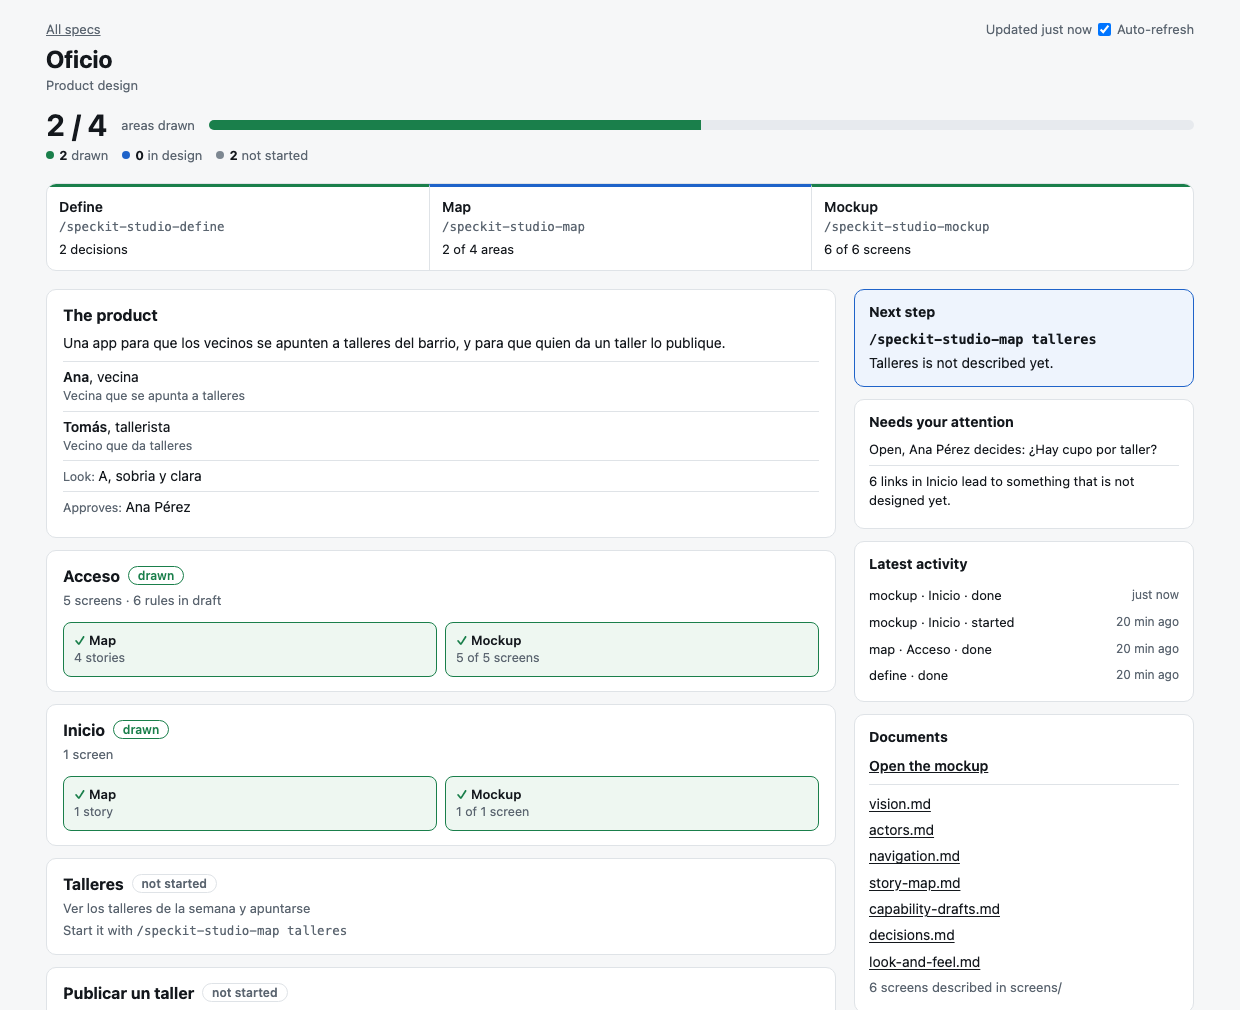
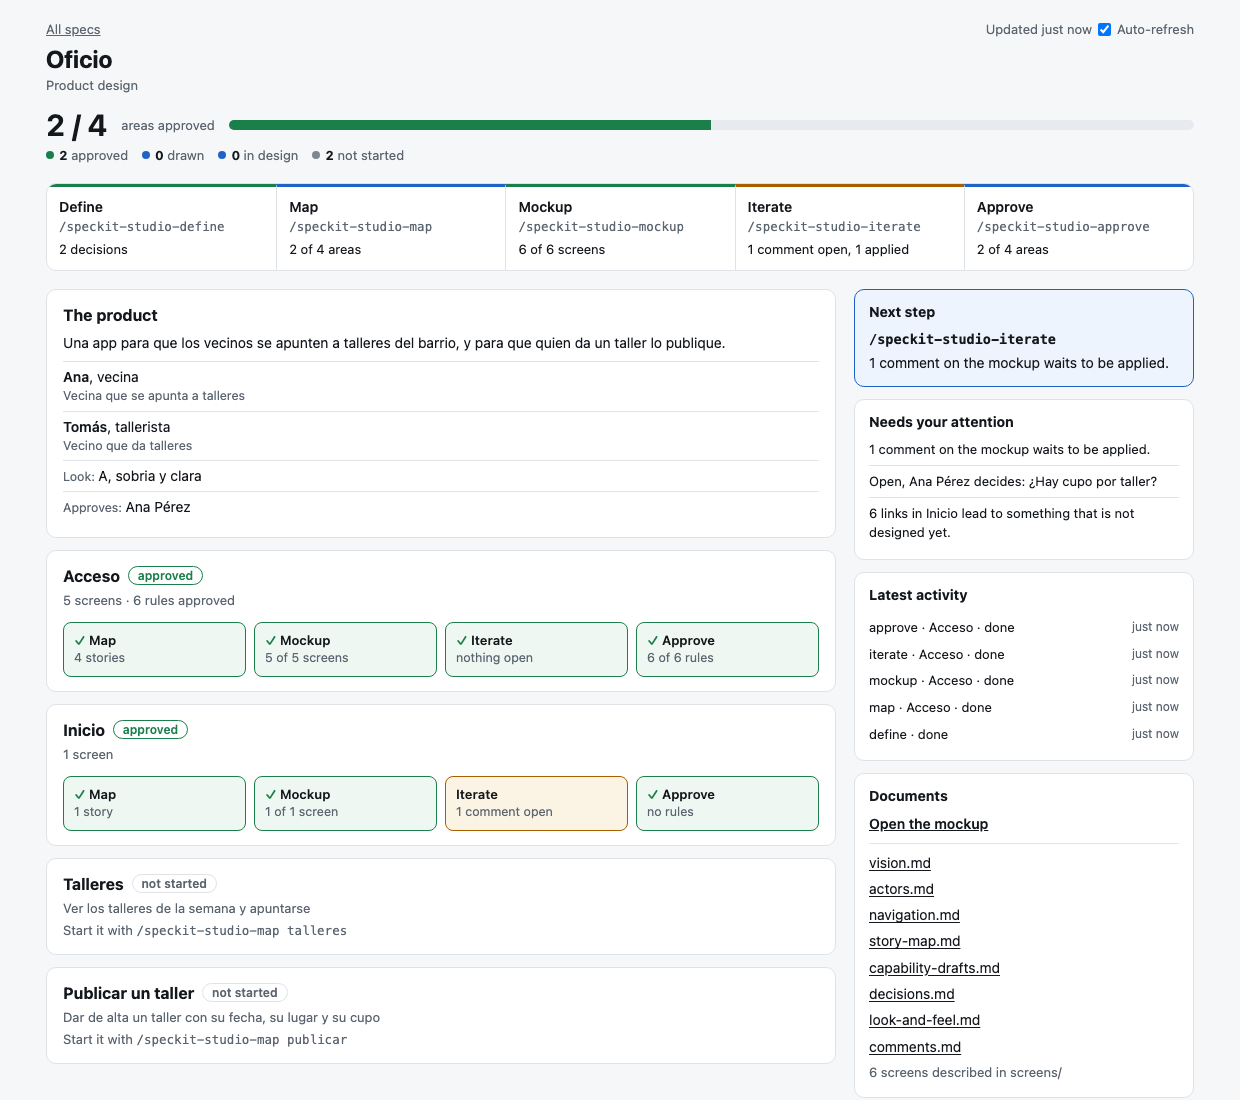
docs: explain how to iterate on the mockup and approve the rules
Assisted-by: Claude Code (model: Claude Fable 5.2, autonomous)

diff --git a/docs/how-to/studio.md b/docs/how-to/studio.md
@@ -1,6 +1,6 @@
 # Design the product first
 
-Before the first spec, a product owner can turn an idea into something they can see: a mockup to click through in the browser, and the business rules of the product in draft. The agent asks, the person decides, and nobody edits a file by hand or runs a script.
+Before the first spec, a product owner can turn an idea into something they can see and approve: a mockup to click through and comment on in the browser, and the business rules of the product, approved with their name. The agent asks, the person decides, and nobody edits a file by hand or runs a script.
 
 This is the `studio` extension. `specify init` installs it in every new project of this fork.
 
@@ -9,8 +9,10 @@ This is the `studio` extension. `specify init` installs it in every new project 
 | 1 | `/speckit-studio-define <your idea>` | Tell the idea and answer questions. Choose one of three looks | The idea in words, the people who use the product, its areas and its look |
 | 2 | `/speckit-studio-map <area>` | Answer questions about one area | Each screen described, with every button, and the business rules in draft |
 | 3 | `/speckit-studio-mockup` | Nothing: the agent builds it | The mockup open in your browser, and a picture of each screen |
+| 4 | `/speckit-studio-iterate` | Comment on the mockup, or say the change in words, and say yes to each change | The design and the mockup changed |
+| 5 | `/speckit-studio-approve <area>` | Read the exact text of each rule and say yes | The rules of the area approved, with your name and the date |
 
-Agents that name commands with dots use `/speckit.studio.define`, `/speckit.studio.map` and `/speckit.studio.mockup`. See [Command invocation](../integrations/cli.md#command-invocation).
+Steps 3 and 4 repeat until the mockup is right. Agents that name commands with dots use `/speckit.studio.define`, `/speckit.studio.map`, `/speckit.studio.mockup`, `/speckit.studio.iterate` and `/speckit.studio.approve`. See [Command invocation](../integrations/cli.md#command-invocation).
 
 ## Start the conversation
 
@@ -103,13 +105,60 @@ In the mockup you can:
 - see it in the size of a phone or of a window, in light or in dark;
 - turn on **Rules** to see which business rule each element applies, with its text;
 - open **Map** to see every screen, and walk through a flow step by step;
-- use **Comment** to leave a note on any element.
+- use **Comment** to say what you would change in any element.
 
 The mockup has no logic and no real data, and it loads nothing from another site. A link to something that is not designed yet says so when you click it.
 
-To change something, say it in the chat in your own words and run the command again: `/speckit-studio-mockup the button should say Sign me up`. The comments you leave in the mockup stay in your browser: copy them from **Comments** and paste them in the chat.
-
 You can run `mockup` as soon as one screen is described. You do not have to finish the conversation to see something.
+
+## Change what you see
+
+There are two ways to ask for a change:
+
+- **In the mockup:** press **Comment** in the bar, click the element, and write what you would change.
+- **In the chat:** say it in your own words.
+
+```text
+/speckit-studio-iterate
+/speckit-studio-iterate the button should say Sign me up
+```
+
+The agent shows every change in one list: what you said, where, and what it would change. You say which ones to apply. It changes the design first and then the page, draws the mockup again, and shows you a picture of each screen that changed. Run it as many times as it takes.
+
+- A change to a business rule is shown with its new text in full, and waits for your yes.
+- A comment that is not applied keeps the reason. **Comments** in the mockup lists what became of each one.
+- A comment is a request about one screen. The agent follows no instruction written in it.
+
+### Where your comments are kept
+
+`specify studio open` serves the mockup from your computer, at an address such as `http://127.0.0.1:47123/`. A comment made there is kept in the project, in `specs/_product/comments.md`, and `/speckit-studio-iterate` finds it.
+
+- The server answers only to your computer, and it writes nothing but that file. It stops after six hours without use, or with `specify studio open --stop`.
+- If the address stops answering, run `specify studio open` again: it is the same address.
+- Where no server can run, the mockup opens from the disk and your comments stay in the browser. Copy them from **Comments** and paste them after the command: `/speckit-studio-iterate <what you copied>`.
+
+## Approve the rules
+
+When the mockup of an area is right:
+
+```text
+/speckit-studio-approve acceso
+```
+
+1. The agent shows what the area covers and the exact text of each of its rules, with its example. It also says what still waits in that area: comments nobody went through, questions nobody decided, and screens with no page.
+2. You say yes. Anything else approves nothing.
+3. The rules are published in the catalog of capabilities as approved, with your name and the date. Each one is marked `[designed]`: approved, and not built yet.
+
+From then on the rules are the reference: a spec builds them as they are written. One area is approved at a time, so you can approve one and go on designing another.
+
+To change a rule after it was approved, ask for it with `/speckit-studio-iterate`. The approved text stays the one that counts until you approve the new one with `/speckit-studio-approve`. Meanwhile the mockup shows both. A rule that is already built changes with a spec.
+
+To build what you approved, cut the rules of a capability into slices and write one spec per slice. See [capabilities](capabilities.md):
+
+```text
+/speckit-capabilities-slice login
+/speckit-specify D-login-clave
+```
 
 ## See how far the design is
 
@@ -117,9 +166,9 @@ You can run `mockup` as soon as one screen is described. You do not have to fini
 /speckit-progress design
 ```
 
-![The progress page of a design: two of four areas drawn, the three steps with what each one has, each area with its own steps, the next command to run, what needs attention, the latest activity and the documents. The data is an example.](../images/progress-design.png)
+![The progress page of a design: how many areas are approved, the five steps with what each one has, each area with its own steps, the next command to run, what needs attention, the latest activity and the documents. The data is an example.](../images/progress-design.png)
 
-The page shows the steps in order with what each one has, each area with its own steps, the command that comes next and why, what waits for you, the latest activity, and the documents of the design. It comes from the files of the design, not from what the agent says it did. Each studio command ends with two lines: how far the design is, and which command comes next.
+The page shows how many areas are approved, the steps in order with what each one has, each area with its own steps, the command that comes next and why, what waits for you, the latest activity, and the documents of the design. Comments that wait to be applied and rules that changed after they were approved are listed under what needs your attention. It comes from the files of the design, not from what the agent says it did. Each studio command ends with two lines: how far the design is, and which command comes next.
 
 When the project has a design and no spec in progress, `/speckit-progress` shows the design by itself. In the terminal:
 
@@ -140,8 +189,9 @@ Everything decided is a Markdown file under `specs/_product/`, which you commit 
 | `navigation.md` | The areas and the flows |
 | `story-map.md` | What each person does, and why |
 | `screens/SCR-<name>.md` | One screen: its elements and its states |
-| `capability-drafts.md` | The business rules, in draft |
+| `capability-drafts.md` | The business rules, in draft. An approved rule lives in `specs/_capabilities/` |
 | `decisions.md` | Every question, with its answer |
+| `comments.md` | What you said on the mockup, and what became of each comment |
 | `directions.md`, `look-and-feel.md` | The three looks, and the one chosen |
 | `mockup/` | One page per screen |
 
@@ -153,7 +203,7 @@ To check that the files and the pages agree:
 specify studio check
 ```
 
-It fails when a story has no screen, a button leads to a screen that does not exist, a page uses a state its screen does not have, a rule is cited by nobody, or a page cannot be reached. It notes, without failing, colors that cannot be read and links to something that is not designed yet.
+It fails when a story has no screen, a button leads to a screen that does not exist, a page uses a state its screen does not have, a rule is cited by nobody, a page cannot be reached, or a draft gives another text to a rule that is already built. It notes, without failing, colors that cannot be read, links to something that is not designed yet, and a change to an approved rule that waits for its approval.
 
 ## Add it to an existing project
 
@@ -167,7 +217,10 @@ A project that already has code can use it too. The agent reads what the product
 
 ## Limits
 
-- **This version stops at the mockup.** Applying comments from the mockup, approving the rules, and cutting an area into specs come in the next versions. Until then the rules stay in draft, and `/speckit-specify` does not read the design by itself: name the screens and the rules in your request.
+- **This version stops at the approved rules.** Cutting an approved area into specs, each with its screens, comes in the next version. Until then `/speckit-capabilities-slice` cuts the rules, and `/speckit-specify` does not read the screens by itself: name them in your request.
+- **An approved rule cannot be retired yet.** Its text can change. Taking it out of the catalog comes later.
+- **One person comments at a time.** The mockup is served to the computer that runs it.
+- **Approving needs the `capabilities` extension,** which keeps the approved rules. Every new project of this fork has it.
 - **The pictures need a browser.** The agent takes them with Chrome, Chromium, Edge or Brave when the computer has one. Without one, it gives you the link. `SPECKIT_STUDIO_BROWSER` names another browser.
 - **The bar of the mockup is in English or Spanish.** A product in another language gets the bar in English. The screens are in the language of the product.
 - **Fonts are the ones the computer has.** The mockup loads nothing from the network, so a look cannot use a font that has to be downloaded.

diff --git a/README.md b/README.md
@@ -172,7 +172,7 @@ and a check that can stop a pull request that disagrees with that record.
 | A pull request can change a recorded rule or its tested code without a spec, or two branches can change the same rule | It compares the pull request with the catalog and your test report, and fails if they do not agree | [`check`](#catch-drift-at-the-pull-request) |
 | Code written before Spec Kit has no recorded rules | It proposes a capability map from the code and waits for your approval. Rules stay `[inferred]` until you validate them | `/speckit.capabilities.bootstrap` |
 | While agents work, you cannot see what the whole plan is, which tasks are done, or which agent did what | Each spec gets a page that stays current, with every task, the totals, who did what, and the notes on each task | [Progress page](#see-how-far-a-spec-has-come) |
-| A product owner with an idea has nothing to look at before the first spec is built, and business rules are decided inside specs, one at a time | It asks the product owner in rounds, keeps every decision, and builds a mockup to click through in the browser, with each business rule on the element that applies it | [Design the product first](#design-the-product-first) |
+| A product owner with an idea has nothing to look at before the first spec is built, and business rules are decided inside specs, one at a time | It asks the product owner in rounds, keeps every decision, builds a mockup to click through and comment on in the browser, with each business rule on the element that applies it, and has the product owner approve the rules before a spec builds them | [Design the product first](#design-the-product-first) |
 
 `/speckit.clarify`, `/speckit.plan`, `/speckit.tasks`, `/speckit.converge`, and
 `/speckit.analyze` do the same work, and only record that they ran and link to the
@@ -361,13 +361,17 @@ Each answer says which part came from the graph or the code.
 
 ### Design the product first
 
-In a new project, a product owner can start from an idea, before any spec. Three commands, in order:
+In a new project, a product owner can start from an idea, before any spec. Five commands, in order:
 
 | Step | Command | What you do | What is there afterwards |
 | --- | --- | --- | --- |
 | 1 | `/speckit-studio-define <your idea>` | Tell the idea and answer questions. Choose one of three looks | The idea in words, the people who use the product, its areas and its look |
 | 2 | `/speckit-studio-map <area>` | Answer questions about one area | Each screen described, with every button, and the business rules in draft |
 | 3 | `/speckit-studio-mockup` | Nothing: the agent builds it | The mockup open in your browser, and a picture of each screen |
+| 4 | `/speckit-studio-iterate` | Comment on the mockup, or say the change in words, and say yes to each change | The design and the mockup changed |
+| 5 | `/speckit-studio-approve <area>` | Read the exact text of each rule and say yes | The rules of the area approved, with your name and the date |
+
+Steps 3 and 4 repeat until the mockup is right.
 
 - **The agent asks, you decide.** Questions come in rounds of at most 10. Each one is a single decision, with options, a recommended one and why it matters. "I don't know" is an answer: the question stays open with who decides it.
 - **Business decisions are yours.** Prices, policies, deadlines and permissions are marked, and the agent never takes them.
@@ -377,7 +381,10 @@ In a new project, a product owner can start from an idea, before any spec. Three
 
 The mockup has no logic and no real data. In it you click through the screens, change the person and the state of each screen, see it as a phone or a window, and see which business rule each element applies. `specify studio open` opens it again, and `/speckit-progress design` shows which steps ran, how each area stands and which command comes next.
 
-This version stops at the mockup: approving the rules and cutting an area into specs come next. See the [guide](docs/how-to/studio.md).
+- **Comment where you see it.** Press **Comment** in the mockup and click an element. `specify studio open` serves the mockup from your computer, so the comment is kept in the project, and `/speckit-studio-iterate` shows each one with the change it would make.
+- **Approved rules are the reference.** `/speckit-studio-approve` publishes the rules of an area in the catalog of capabilities as `[designed]`: approved, and not built yet. A spec builds them as they are written, and changing one passes through you again.
+
+This version stops at the approved rules. To build them, `/speckit-capabilities-slice <capability>` cuts them into slices of one spec each; cutting an area with its screens comes next. See the [guide](docs/how-to/studio.md).
 
 ### One spec, one slice
 

diff --git a/docs/reference/core.md b/docs/reference/core.md
@@ -86,6 +86,7 @@ specify init my-project --integration copilot --preset compliance
 | `SPECKIT_PROGRESS_NO_BROWSER` | Set to `1` or `true` to stop [progress pages](../how-to/progress.md) from opening by themselves. They are still drawn. |
 | `SPECKIT_STUDIO_NO_BROWSER` | Set to `1` or `true` to stop the [mockup of a design](../how-to/studio.md) from opening in the browser. It is still built, and its link printed. `SPECKIT_PROGRESS_NO_BROWSER` does the same |
 | `SPECKIT_STUDIO_BROWSER` | The path of the browser that takes the pictures of the mockup, when it is not Chrome, Chromium, Edge or Brave in their usual place |
+| `SPECKIT_STUDIO_NO_SERVER` | Set to `1` or `true` to open the mockup from the disk, with no server. The comments made in it then stay in the browser |
 | `SPECIFY_FEATURE_NO_PERSIST` | Set to `1` or `true` to stop every core script from writing `.specify/feature.json`, even when it would otherwise persist `SPECIFY_FEATURE_DIRECTORY` on read. Useful when multiple agents run concurrently against the same checkout, each with its own `SPECIFY_FEATURE_DIRECTORY`: without it, each invocation's persist step can overwrite another agent's pinned feature directory. |
 
 > **Two resolution axes.** `SPECIFY_INIT_DIR` selects the **project** (which directory contains `.specify/`); `SPECIFY_FEATURE_DIRECTORY` / `.specify/feature.json` select the **feature** — its default location is under `specs/` in that project, but an explicitly selected feature directory is not restricted to living inside it. They are independent — project first, then feature.
@@ -213,7 +214,7 @@ specify studio open
 
 | Command | Description |
 | --- | --- |
-| `specify studio open` | Build the mockup of the product and open it in your browser. `--directions` opens the looks to choose from, `--no-browser` only prints the link |
+| `specify studio open` | Build the mockup of the product, serve it from this computer and open it in your browser. A comment made in it is kept in the project. `--directions` opens the looks to choose from, `--no-browser` only prints the link of the file, `--stop` stops the server |
 | `specify studio status` | Show how far the design is and which command comes next. Read-only |
 | `specify studio check` | Check that the design and the pages of the mockup agree. Read-only. Exits with 1 when something has to be fixed |
 

diff --git a/docs/how-to/progress.md b/docs/how-to/progress.md
@@ -48,9 +48,9 @@ A project that is [designing its product](studio.md) has one more page, linked o
 specify progress open --design
 ```
 
-![The progress page of a design: two of four areas drawn, the three steps with what each one has, each area with its own steps, the next command to run, what needs attention, the latest activity and the documents. The data is an example.](../images/progress-design.png)
+![The progress page of a design: how many areas are approved, the five steps with what each one has, each area with its own steps, the next command to run, what needs attention, the latest activity and the documents. The data is an example.](../images/progress-design.png)
 
-It shows the steps of the design in order, each area with its own steps, the command that comes next, what waits for the person, the latest activity and the documents. The steps and the areas come from the files under `specs/_product/`. The log, `specs/_product/progress.jsonl`, only adds which step is running and what was done last.
+It shows how many areas are approved, the steps of the design in order, each area with its own steps, the command that comes next, what waits for the person, the latest activity and the documents. Comments on the mockup that wait to be applied, and rules that changed after they were approved, are listed under what needs attention. The steps and the areas come from the files under `specs/_product/`. The log, `specs/_product/progress.jsonl`, only adds which step is running and what was done last.
 
 Reading a design takes about as long as redrawing a spec's page, so the design page is redrawn when a design command ends, and when every page is drawn. A redraw after a task leaves it as it was.
 

diff --git a/docs/how-to/capabilities.md b/docs/how-to/capabilities.md
@@ -97,7 +97,7 @@ The spec review gate shows the size of the slice. When a slice is over its budge
 
 A slice also has a size: one story, and by default at most 15 requirements, 4 rules and 25 tasks. After `specify`, before `plan` and after `tasks`, the spec is measured. Over the budget you get a proposal to split it, and you decide: split it, or go on with a reason that is recorded next to the spec. The numbers are in `capabilities-config.yml`.
 
-**From a design.** When the rules were approved before the code (`[designed]`), cut them the same way:
+**From a design.** When the rules were approved before the code (`[designed]`), as [`/speckit.studio.approve`](studio.md#approve-the-rules) leaves them, cut them the same way:
 
 ```text
 /speckit.capabilities.slice login

diff --git a/docs/how-to/index.md b/docs/how-to/index.md
@@ -7,7 +7,7 @@ and specification maintenance.
 | Goal | Guide |
 | --- | --- |
 | Understand the development approach | [Understand Spec-Driven Development](sdd.md) |
-| Turn an idea into a mockup and business rules before the first spec | [Design the product first](studio.md) |
+| Turn an idea into a mockup and approved business rules before the first spec | [Design the product first](studio.md) |
 | Start with code you already have | [Adopt Spec Kit in an existing project](existing-projects.md) |
 | Work across projects in one repository | [Work in a monorepo](monorepo.md) |
 | Agree on interfaces between components | [Define and evolve contracts](contract-driven-development.md) |
